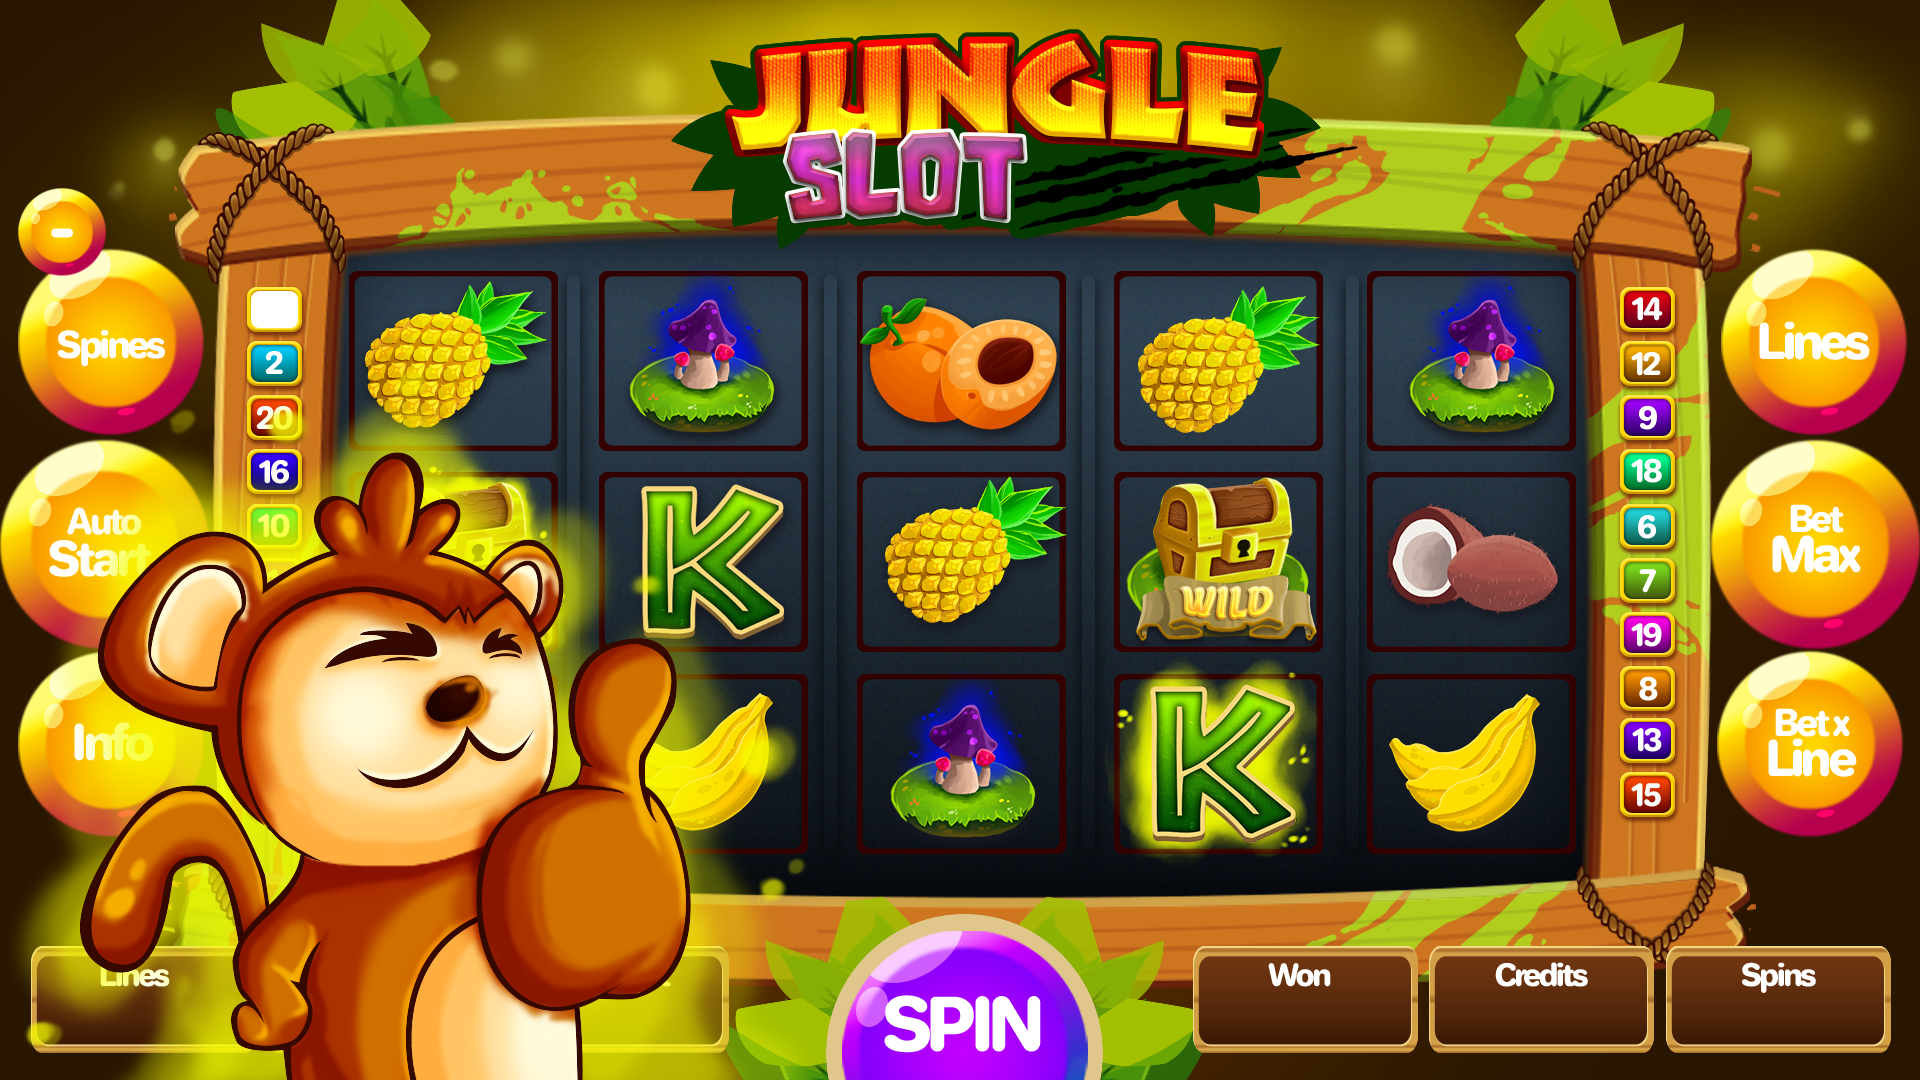
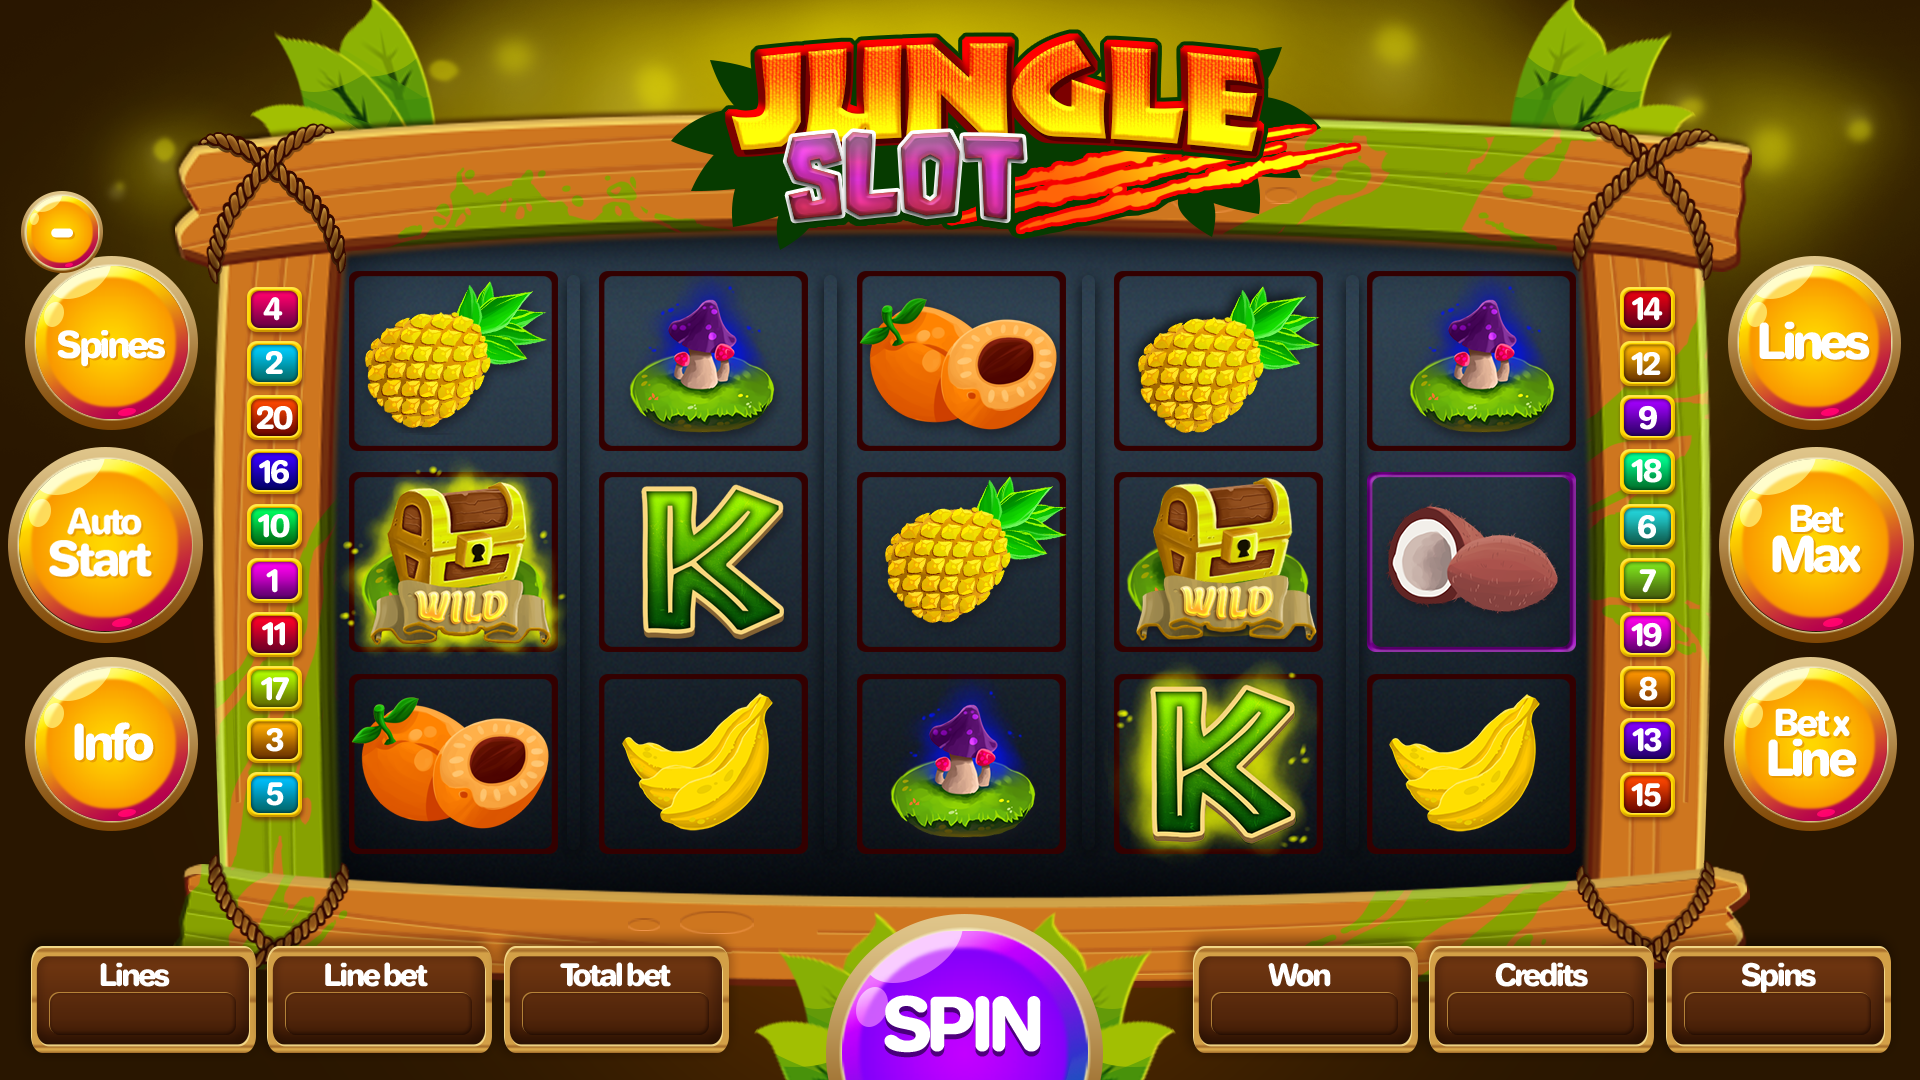
Added lines button

diff --git a/js/scenes/SceneMain.js b/js/scenes/SceneMain.js
@@ -11,6 +11,7 @@ class SceneMain extends Phaser.Scene
     this.tableBackground;
     this.tableFrame;
     this.spinButton;
+    this.linesButton;
     this.disableTint = 0x6E6E6E;
 
     this.spinOutcomeManager = new SpinOutcomeManager(this, 3);
@@ -35,7 +36,8 @@ class SceneMain extends Phaser.Scene
     Align.scaleToGameW(this.spinButton, 0.2);
     Align.scaleToGameW(this.add.image(CENTERX, 685, 'leaves'), 0.2);
 
-    //this.winLinesManager.drawWinLines();
+    this.linesButton = this.add.image(520, 685, 'linesButton').setInteractive().on('pointerdown', () => {this.onClickButtonLines(true)}, this).on('pointerup', () => {this.onClickButtonLines(false)}, this);
+    Align.scaleToGameW(this.linesButton, 0.1);
   }
 
   update()
@@ -46,5 +48,10 @@ class SceneMain extends Phaser.Scene
   enableSpinButton(enbale = true)
   {
     this.spinButton.setTint(enbale ? 0xFFFFFF : this.disableTint);
+  }
+
+  onClickButtonLines(down)
+  {
+    this.winLinesManager.drawWinLines(down);
   }
 }

diff --git a/js/scenes/SceneLoader.js b/js/scenes/SceneLoader.js
@@ -12,6 +12,7 @@ class SceneLoader extends Phaser.Scene
     this.load.image('tableBackground', 'assets/images/table/table background.png');
     this.load.image('leaves', 'assets/images/spin button/leaves.png');
     this.load.image('spinButton', 'assets/images/spin button/spinButton.png');
+    this.load.image('linesButton', 'assets/images/buttons/lines.png');
     
     ReelsInfo.AllReelSymbols.forEach(function (symbolKey) {
       this.load.image(symbolKey, 'assets/images/symbols/' + symbolKey + '.png');
